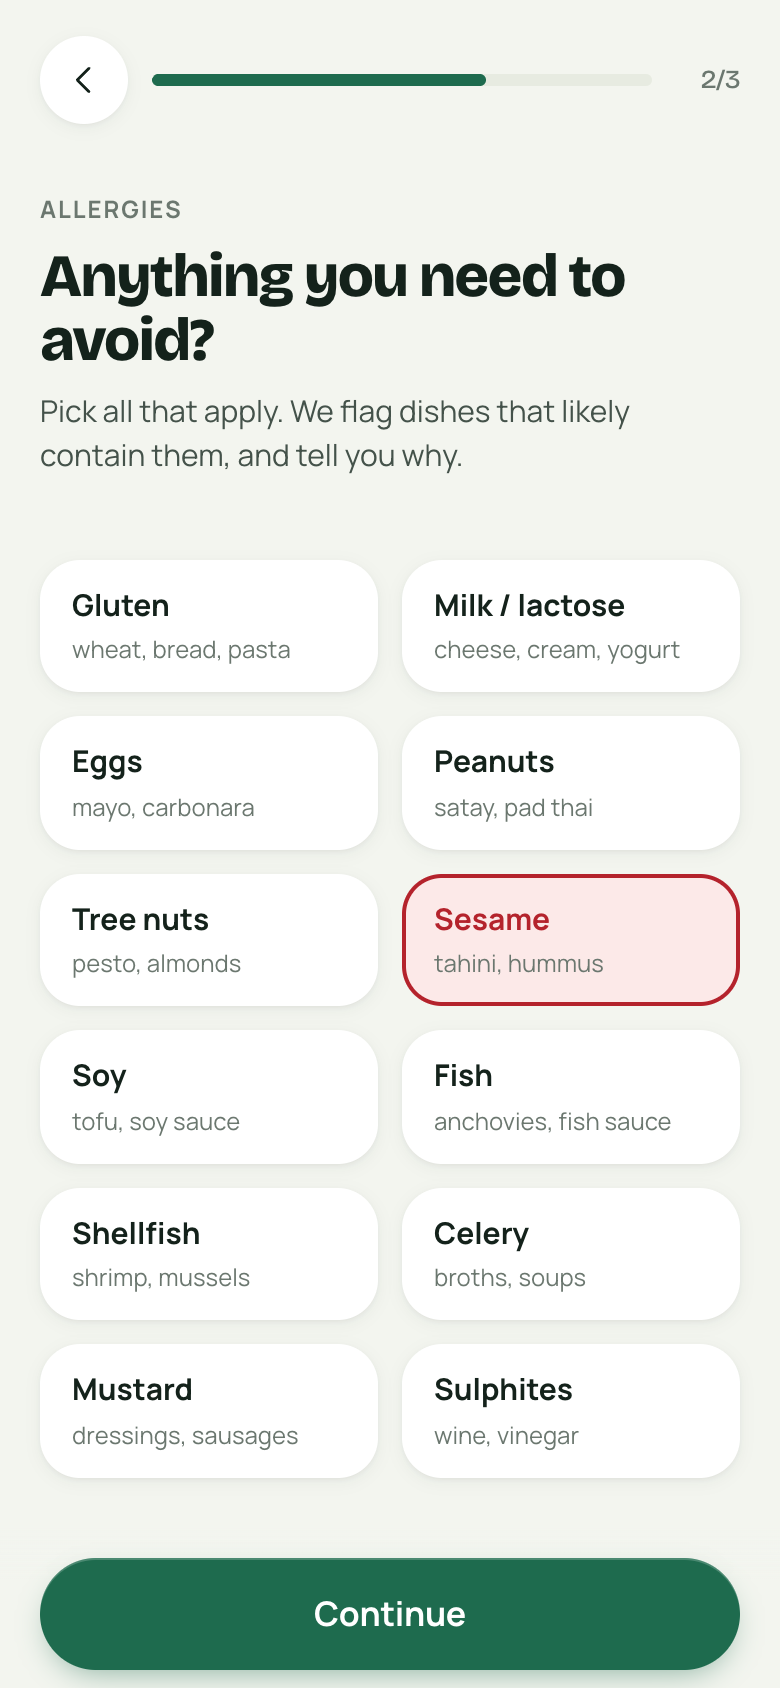
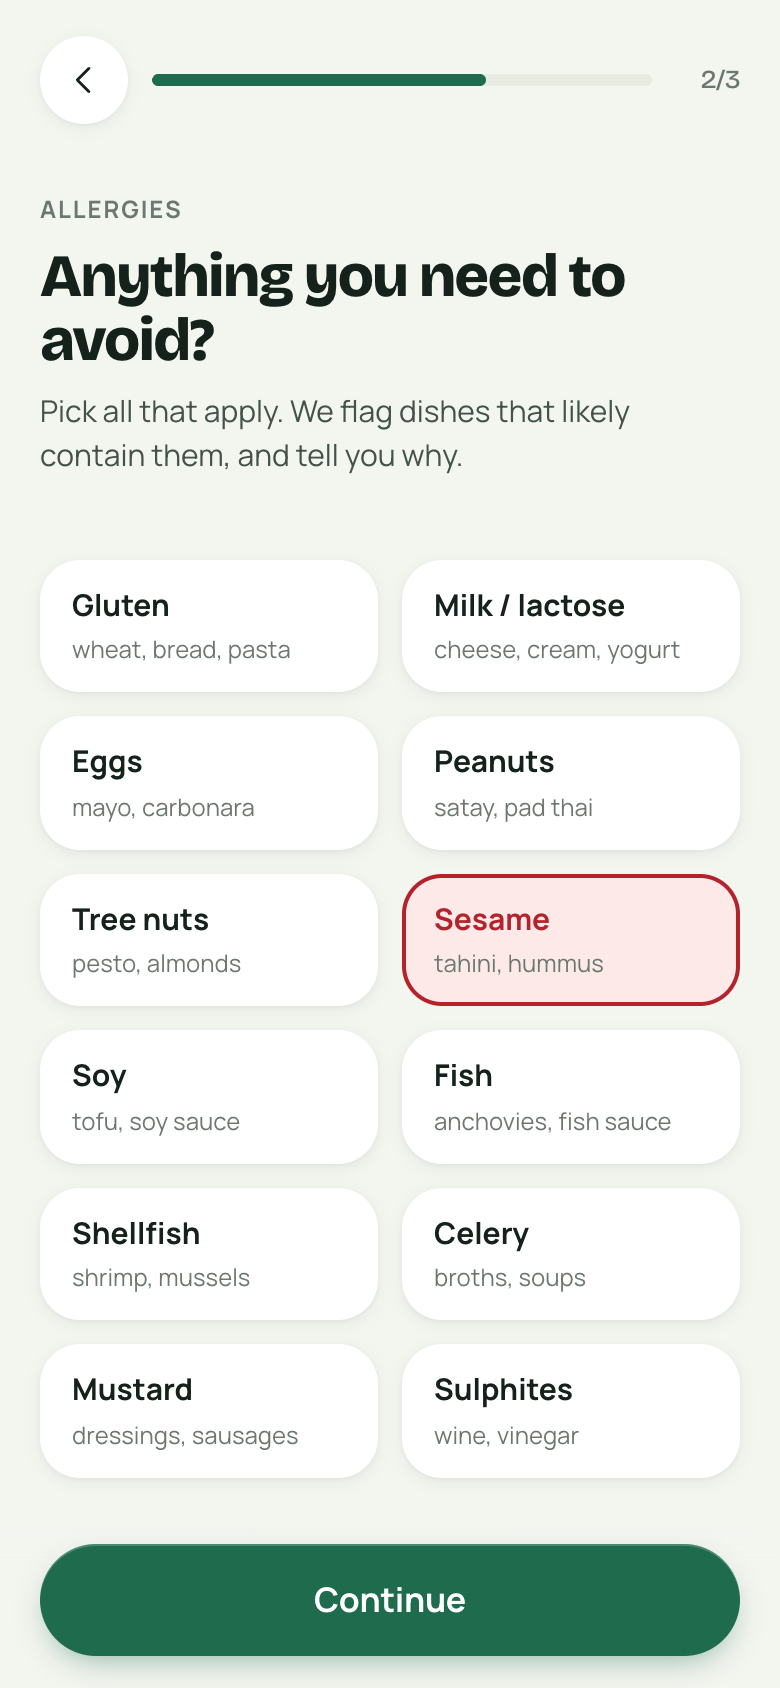
Snapmenu polish: fixed bottom bar, hero scan line, share card, copy on plain HTTP, desktop frame
Claude-Session: https://claude.ai/code/session_01T5GAskTK6vrfYcRsVYFExC

Changed region(s): [[0.0308, 0.8934, 0.9538, 1.0]]

diff --git a/apps/snapmenu-web/src/styles.css b/apps/snapmenu-web/src/styles.css
@@ -73,7 +73,7 @@ img { display: block; max-width: 100%; }
 }
 @media (min-width: 600px) {
   body { background: radial-gradient(1200px 600px at 50% -10%, #dfe8dc, #e9ede4 60%); }
-  .app { min-height: calc(100dvh - 48px); margin: 24px auto; border-radius: 36px; box-shadow: 0 30px 80px -30px rgba(20, 34, 27, 0.35); overflow: hidden; }
+  .app { box-shadow: 0 0 0 1px rgba(20, 34, 27, 0.04), 0 30px 80px -30px rgba(20, 34, 27, 0.35); }
 }
 
 .screen {
@@ -114,7 +114,6 @@ img { display: block; max-width: 100%; }
   display: grid;
   gap: 8px;
 }
-@media (min-width: 600px) { .cta-bar { bottom: 24px; border-radius: 0 0 36px 36px; } }
 
 .btn {
   min-height: 56px;
@@ -156,6 +155,7 @@ img { display: block; max-width: 100%; }
 
 /* ---------- Landing ---------- */
 .landing-hero { position: relative; margin: 24px -4px 0; }
+.landing-hero svg { overflow: visible; }
 .hero-scan { animation: hero-scan 3.2s cubic-bezier(0.45, 0, 0.35, 1) infinite alternate; }
 @keyframes hero-scan { from { transform: translateY(18px); } to { transform: translateY(240px); } }
 .landing-copy { margin-top: 24px; display: grid; gap: 16px; }
@@ -241,7 +241,7 @@ img { display: block; max-width: 100%; }
 .range-top { display: flex; align-items: baseline; justify-content: space-between; gap: 8px; }
 .range-value { font-family: var(--display); font-weight: 800; font-size: 28px; letter-spacing: -0.03em; font-variant-numeric: tabular-nums; }
 .range-value small { font-family: var(--text); font-size: 14px; font-weight: 600; color: var(--ink-3); letter-spacing: 0; margin-left: 4px; }
-.range-track { position: relative; height: 12px; border-radius: 999px; background: repeating-linear-gradient(90deg, var(--bg-deep) 0 2px, transparent 2px 25%), var(--bg); box-shadow: inset 0 0 0 1px var(--line); }
+.range-track { position: relative; height: 12px; border-radius: 999px; background: linear-gradient(90deg, transparent calc(50% - 1px), var(--line) calc(50% - 1px) calc(50% + 1px), transparent calc(50% + 1px)), var(--bg); box-shadow: inset 0 0 0 1px var(--line); }
 .range-band { position: absolute; top: 0; bottom: 0; border-radius: 999px; background: linear-gradient(90deg, color-mix(in srgb, var(--unsure) 35%, white), var(--unsure) 50%, color-mix(in srgb, var(--unsure) 35%, white)); transition: left 300ms var(--ease), width 300ms var(--ease); }
 .range-mid { position: absolute; top: -3px; width: 4px; height: 18px; border-radius: 4px; background: var(--ink); transform: translateX(-50%); transition: left 300ms var(--ease); }
 .range-scale { display: flex; justify-content: space-between; font-size: 11px; color: var(--ink-3); font-variant-numeric: tabular-nums; }

diff --git a/apps/snapmenu-api/src/index.ts b/apps/snapmenu-api/src/index.ts
@@ -152,7 +152,7 @@ async function handleNumbers(env: Env): Promise<Response> {
   const visitors = await q<{ c: number }>("SELECT COUNT(DISTINCT device) c FROM events WHERE team=0")
   const dishes = await q<{ c: number }>("SELECT COALESCE(SUM(json_extract(props,'$.dishes')),0) c FROM events WHERE type='scan' AND team=0")
   const recommended = await q<{ c: number }>("SELECT COALESCE(SUM(json_extract(props,'$.shown')),0) c FROM events WHERE type='scan' AND team=0")
-  const shares = await q<{ c: number }>("SELECT COUNT(*) c FROM events WHERE type IN ('share','share_download') AND team=0")
+  const shares = await q<{ c: number }>("SELECT COUNT(*) c FROM events WHERE type='share' AND team=0")
   const corrections = await q<{ c: number }>("SELECT COUNT(*) c FROM events WHERE type='correction' AND team=0")
   const menuLangs = await all<{ v: string; c: number }>("SELECT json_extract(props,'$.menuLanguage') v, COUNT(*) c FROM events WHERE type='scan' AND team=0 GROUP BY v ORDER BY c DESC")
   const userLangs = await all<{ v: string; c: number }>("SELECT json_extract(props,'$.userLanguage') v, COUNT(*) c FROM events WHERE type='scan' AND team=0 GROUP BY v ORDER BY c DESC")

diff --git a/apps/snapmenu-api/src/anthropic.ts b/apps/snapmenu-api/src/anthropic.ts
@@ -99,7 +99,7 @@ For each orderable dish on the menu (skip headings, opening hours, drinks unless
 - has_meat / has_fish / has_dairy_or_egg: from the menu text and the usual recipe.
 - allergen_hints: EU allergens the dish likely contains, with a short reason in the user's language. If the menu prints allergen codes or footnotes (e.g. "A, C, G" or "1,3"), decode them using the menu's own legend when visible and say so in the reason.
 
-If the photo is not a menu or is unreadable, set is_menu=false, give a short polite refusal_reason in the user's language, and return no dishes.
+If the photo is not a menu or is unreadable, set is_menu=false, give refusal_reason as one short sentence in the user's language, written as app interface text (no "I"), saying what is wrong and what to do, e.g. "No menu text found in this photo. Take a closer, sharper photo of the menu.", and return no dishes.
 restaurant_name: only if printed. menu_language: the language the menu is written in, in English (e.g. "German"). cuisine: one or two words.
 
 Known standard dishes (key: label): ${DISH_TABLE.map((d) => `${d.key}: ${d.label}`).join('; ')}`

diff --git a/apps/snapmenu-web/src/lib/share.ts b/apps/snapmenu-web/src/lib/share.ts
@@ -16,7 +16,7 @@ export async function renderShareCard(d: DishEstimate, restaurant: string | null
   g.fillStyle = '#123F2E'
   g.fillRect(0, 0, W, H)
   const rg = g.createRadialGradient(W * 0.8, H * 0.12, 50, W * 0.8, H * 0.12, 1100)
-  rg.addColorStop(0, 'rgba(242,179,61,0.35)')
+  rg.addColorStop(0, 'rgba(242,179,61,0.18)')
   rg.addColorStop(1, 'rgba(242,179,61,0)')
   g.fillStyle = rg
   g.fillRect(0, 0, W, H)
@@ -117,8 +117,8 @@ export async function renderShareCard(d: DishEstimate, restaurant: string | null
   g.fillText(`Picked for: ${goalLabel}`, 96, cardY + 660)
   g.font = `600 34px ${T}`
   g.fillStyle = 'rgba(243,245,239,0.72)'
-  g.fillText('Numbers from USDA FoodData Central and Open Food Facts,', 96, H - 220)
-  g.fillText('computed by the open-source Nut AI engine. Estimates.', 96, H - 170)
+  g.fillText('Ranges from USDA and Open Food Facts data,', 96, H - 220)
+  g.fillText('computed by the open-source Nut AI engine.', 96, H - 170)
   g.font = `800 40px ${D}`
   g.fillStyle = '#FFFFFF'
   g.fillText('Snap any menu. snapmenu', 96, H - 96)

diff --git a/apps/snapmenu-web/src/screens/Results.tsx b/apps/snapmenu-web/src/screens/Results.tsx
@@ -6,7 +6,20 @@ import { GOAL_LABEL, kcalRange } from '../lib/format'
 export function SayThis({ tip, onToast }: { tip: OrderTip; onToast: (t: string) => void }) {
   const copy = async () => {
     try {
-      await navigator.clipboard.writeText(tip.local)
+      if (navigator.clipboard && window.isSecureContext) await navigator.clipboard.writeText(tip.local)
+      else {
+        // Plain-HTTP fallback (phones on the local Wi-Fi URL have no async clipboard).
+        const ta = document.createElement('textarea')
+        ta.value = tip.local
+        ta.setAttribute('readonly', '')
+        ta.style.position = 'fixed'
+        ta.style.opacity = '0'
+        document.body.appendChild(ta)
+        ta.select()
+        const ok = document.execCommand('copy')
+        ta.remove()
+        if (!ok) throw new Error('copy')
+      }
       onToast('Copied. Show it or read it out.')
     } catch {
       onToast('Copy is blocked here. Long-press the text instead.')

diff --git a/apps/snapmenu-web/src/screens/Landing.tsx b/apps/snapmenu-web/src/screens/Landing.tsx
@@ -10,7 +10,7 @@ function HeroArt() {
           <stop offset="1" stopColor="#F2B33D" stopOpacity=".35" />
         </linearGradient>
         <clipPath id="hg-clip"><rect x="40" y="18" width="220" height="270" rx="22" /></clipPath>
-        <filter id="hg-sh" x="-20%" y="-20%" width="140%" height="160%">
+        <filter id="hg-sh" x="-40%" y="-40%" width="180%" height="200%">
           <feDropShadow dx="0" dy="14" stdDeviation="16" floodColor="#14221B" floodOpacity=".16" />
         </filter>
       </defs>

diff --git a/apps/snapmenu-web/src/components/ui.tsx b/apps/snapmenu-web/src/components/ui.tsx
@@ -85,7 +85,7 @@ export function RangeBar({ range, label = 'kcal', max = 1500, tier }: { range: R
         <div className="range-mid" style={{ left: pct(range.mid) }} />
       </div>
       <div className="range-scale" aria-hidden="true">
-        <span>0</span><span>{n0(max / 4)}</span><span>{n0(max / 2)}</span><span>{n0((max * 3) / 4)}</span><span>{n0(max)}</span>
+        <span>0</span><span>{n0(max / 2)}</span><span>{n0(max)} kcal</span>
       </div>
     </div>
   )
